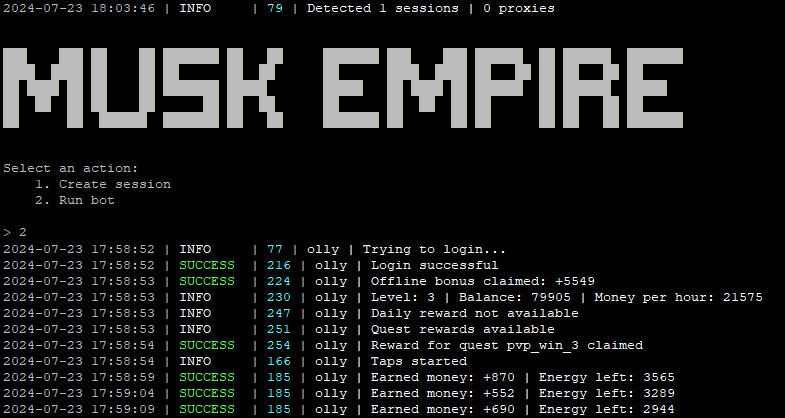
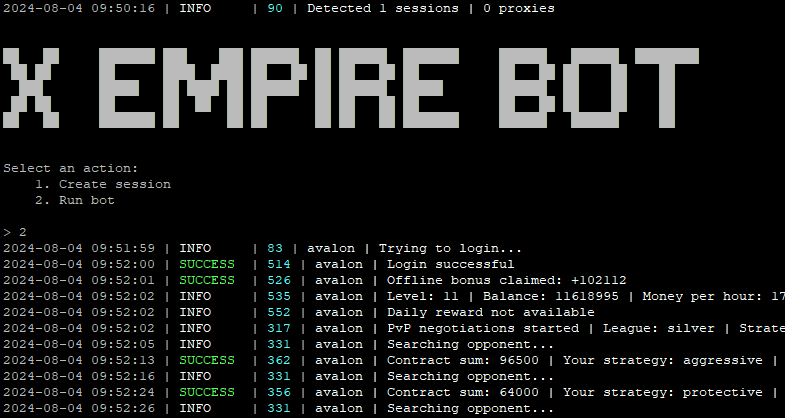
Bot renamed to match the game name
Also updated the url to the new game domain. Resolves #22

diff --git a/bot/utils/settings.py b/bot/utils/settings.py
@@ -2,12 +2,12 @@ from pydantic_settings import BaseSettings, SettingsConfigDict
 from bot.utils.logger import log
 logo = """
 
-███    ███ ██    ██ ███████ ██   ██     ███████ ███    ███ ██████  ██ ██████  ███████ 
-████  ████ ██    ██ ██      ██  ██      ██      ████  ████ ██   ██ ██ ██   ██ ██      
-██ ████ ██ ██    ██ ███████ █████       █████   ██ ████ ██ ██████  ██ ██████  █████   
-██  ██  ██ ██    ██      ██ ██  ██      ██      ██  ██  ██ ██      ██ ██   ██ ██      
-██      ██  ██████  ███████ ██   ██     ███████ ██      ██ ██      ██ ██   ██ ███████ 
-                                                                                      
+██   ██     ███████ ███    ███ ██████  ██ ██████  ███████     ██████   ██████  ████████ 
+ ██ ██      ██      ████  ████ ██   ██ ██ ██   ██ ██          ██   ██ ██    ██    ██    
+  ███       █████   ██ ████ ██ ██████  ██ ██████  █████       ██████  ██    ██    ██    
+ ██ ██      ██      ██  ██  ██ ██      ██ ██   ██ ██          ██   ██ ██    ██    ██    
+██   ██     ███████ ██      ██ ██      ██ ██   ██ ███████     ██████   ██████     ██    
+
 """
 
 class Settings(BaseSettings):

diff --git a/bot/core/bot.py b/bot/core/bot.py
@@ -19,7 +19,7 @@ class CryptoBot:
 		self.session_name = tg_client.name
 		self.tg_client = tg_client
 		self.user_id = None
-		self.api_url = 'https://api.muskempire.io'
+		self.api_url = 'https://api.xempire.io'
 		self.need_quiz = False
 		self.need_rebus = False
 		self.rebus_key = ''
@@ -51,7 +51,7 @@ class CryptoBot:
 				bot=await self.tg_client.resolve_peer('muskempire_bot'),
 				platform='android',
 				from_bot_menu=False,
-				url='https://game.muskempire.io/'
+				url='https://game.xempire.io/'
 			))
 			auth_url = web_view.url
 			tg_web_data = unquote(

diff --git a/bot/core/headers.py b/bot/core/headers.py
@@ -3,8 +3,8 @@ headers = {
 	'Accept-Language': 'ru,ru-RU;q=0.9,en-US;q=0.8,en;q=0.7',
 	'Content-Type' : 'application/json',
 	'Is-Beta-Server' : 'null',
-	'Origin': 'https://game.muskempire.io',
-	'Referer': 'https://game.muskempire.io/',
+	'Origin': 'https://game.xempire.io',
+	'Referer': 'https://game.xempire.io/',
 	'Sec-Fetch-Dest': 'empty',
 	'Sec-Fetch-Mode': 'cors',
 	'Sec-Fetch-Site': 'same-site',

diff --git a/README-RU.md b/README-RU.md
@@ -1,4 +1,4 @@
-# Бот для [Musk Empire](https://alexell.ru/cc/musk)
+# Бот для [X Empire](https://alexell.pro/cc/xempire) (Musk Empire)
 
 ![img1](.github/images/demo.png)
 
@@ -20,7 +20,7 @@
 | Инвестирование в фонды (комбо на доход) |        ✅       |
 | Docker                                  |        ✅       |
 
-## [Настройки](https://github.com/Alexell/MuskEmpireBot/blob/main/.env-example)
+## [Настройки](https://github.com/Alexell/XEmpireBot/blob/main/.env-example)
 | Опция                   | Описание                                                                     |
 |-------------------------|------------------------------------------------------------------------------|
 | **API_ID / API_HASH**   | Данные платформы для запуска сессии Telegram                                 |
@@ -50,14 +50,14 @@
 3. Используйте `START.bat` для запуска бота (или в консоли: `python main.py`)
 
 ### Linux
-1. Клонируйте репозиторий: `git clone https://github.com/Alexell/MuskEmpireBot.git && cd MuskEmpireBot`
+1. Клонируйте репозиторий: `git clone https://github.com/Alexell/XEmpireBot.git && cd XEmpireBot`
 2. Выполните установку: `chmod +x INSTALL.sh START.sh && ./INSTALL.sh`, затем укажите ваши API_ID и API_HASH в .env
 3. Используйте `./START.sh` для запуска бота (или в консоли: `python3 main.py`)
 
 ## Запуск в Docker
 ```
-$ git clone https://github.com/Alexell/MuskEmpireBot.git
-$ cd MuskEmpireBot
+$ git clone https://github.com/Alexell/XEmpireBot.git
+$ cd XEmpireBot
 $ cp .env-example .env
 $ nano .env # укажите ваши API_ID и API_HASH, остальное можно оставить по умолчанию
 ```
@@ -68,17 +68,17 @@ $ docker-compose start # запуск в фоновом режиме (аргум
 ```
 ### Docker
 ```
-$ docker build -t muskempire_bot .
-$ docker run --name MuskEmpireBot -v .:/app -it muskempire_bot -a 1 # первый запуск для авторизации
-$ docker rm MuskEmpireBot # удаляем контейнер для пересоздания с аргументами по умолчанию
-$ docker run -d --restart unless-stopped --name MuskEmpireBot -v .:/app muskempire_bot # запуск в фоновом режиме (аргументы по умолчанию: -a 2)
+$ docker build -t xempire_bot .
+$ docker run --name XEmpireBot -v .:/app -it xempire_bot -a 1 # первый запуск для авторизации
+$ docker rm XEmpireBot # удаляем контейнер для пересоздания с аргументами по умолчанию
+$ docker run -d --restart unless-stopped --name XEmpireBot -v .:/app xempire_bot # запуск в фоновом режиме (аргументы по умолчанию: -a 2)
 ```
 
 ## Ручная установка
-Вы можете скачать [**Репозиторий**](https://github.com/Alexell/MuskEmpireBot) клонированием на вашу систему и установкой необходимых зависимостей:
+Вы можете скачать [**Репозиторий**](https://github.com/Alexell/XEmpireBot) клонированием на вашу систему и установкой необходимых зависимостей:
 ```
-$ git clone https://github.com/Alexell/MuskEmpireBot.git
-$ cd MuskEmpireBot
+$ git clone https://github.com/Alexell/XEmpireBot.git
+$ cd XEmpireBot
 
 # Linux
 $ python3 -m venv venv
@@ -109,7 +109,7 @@ $ python3 main.py -a (1/2)
 
 ## Запуск  бота в фоновом режиме (Linux)
 ```
-$ cd MuskEmpireBot
+$ cd XEmpireBot
 
 # с логированием
 $ setsid venv/bin/python3 main.py --action 2 >> app.log 2>&1 &

diff --git a/README.md b/README.md
@@ -1,4 +1,4 @@
-# Bot for [Musk Empire](https://alexell.ru/cc/musk)
+# Bot for [X Empire](https://alexell.pro/cc/xempire) (Musk Empire)
 
 ![img1](.github/images/demo.png)
 
@@ -20,7 +20,7 @@
 | Investing in funds (combo for profit) |     ✅     |
 | Docker                                |     ✅     |
 
-## [Options](https://github.com/Alexell/MuskEmpireBot/blob/main/.env-example)
+## [Options](https://github.com/Alexell/XEmpireBot/blob/main/.env-example)
 | Option                  | Description                                                                     |
 |-------------------------|---------------------------------------------------------------------------------|
 | **API_ID / API_HASH**   | Platform data for launching a Telegram session                                  |
@@ -49,14 +49,14 @@ The answer to the **daily quiz** and the list of funds with guaranteed profits f
 3. Use `START.bat` to launch the bot (or in the console: `python main.py`).
 
 ### Linux
-1. Clone the repository: `git clone https://github.com/Alexell/MuskEmpireBot.git && cd MuskEmpireBot`
+1. Clone the repository: `git clone https://github.com/Alexell/XEmpireBot.git && cd XEmpireBot`
 2. Run the installation: `chmod +x INSTALL.sh START.sh && ./INSTALL.sh`, then specify your API_ID and API_HASH in the .env file.
 3. Use `./START.sh` to run the bot (or in the console: `python3 main.py`).
 
 ## Running in Docker
 ```
-$ git clone https://github.com/Alexell/MuskEmpireBot.git
-$ cd MuskEmpireBot
+$ git clone https://github.com/Alexell/XEmpireBot.git
+$ cd XEmpireBot
 $ cp .env-example .env
 $ nano .env # specify your API_ID and API_HASH, the rest can be left as default
 ```
@@ -67,17 +67,17 @@ $ docker-compose start # start in background mode (default arguments: -a 2)
 ```
 ### Docker
 ```
-$ docker build -t muskempire_bot .
-$ docker run --name MuskEmpireBot -v .:/app -it muskempire_bot -a 1 # first run for authorization
-$ docker rm MuskEmpireBot # remove container to recreate with default arguments
-$ docker run -d --restart unless-stopped --name MuskEmpireBot -v .:/app muskempire_bot # start in background mode (default arguments: -a 2)
+$ docker build -t xempire_bot .
+$ docker run --name XEmpireBot -v .:/app -it xempire_bot -a 1 # first run for authorization
+$ docker rm XEmpireBot # remove container to recreate with default arguments
+$ docker run -d --restart unless-stopped --name XEmpireBot -v .:/app xempire_bot # start in background mode (default arguments: -a 2)
 ```
 
 ## Manual installation
-You can download [**Repository**](https://github.com/Alexell/MuskEmpireBot) by cloning it to your system and installing the necessary dependencies:
+You can download [**Repository**](https://github.com/Alexell/XEmpireBot) by cloning it to your system and installing the necessary dependencies:
 ```
-$ git clone https://github.com/Alexell/MuskEmpireBot.git
-$ cd MuskEmpireBot
+$ git clone https://github.com/Alexell/XEmpireBot.git
+$ cd XEmpireBot
 
 # Linux
 $ python3 -m venv venv
@@ -108,7 +108,7 @@ $ python3 main.py -a (1/2)
 
 ## Running a bot in the background (Linux)
 ```
-$ cd MuskEmpireBot
+$ cd XEmpireBot
 
 # with logging
 $ setsid venv/bin/python3 main.py --action 2 >> app.log 2>&1 &
